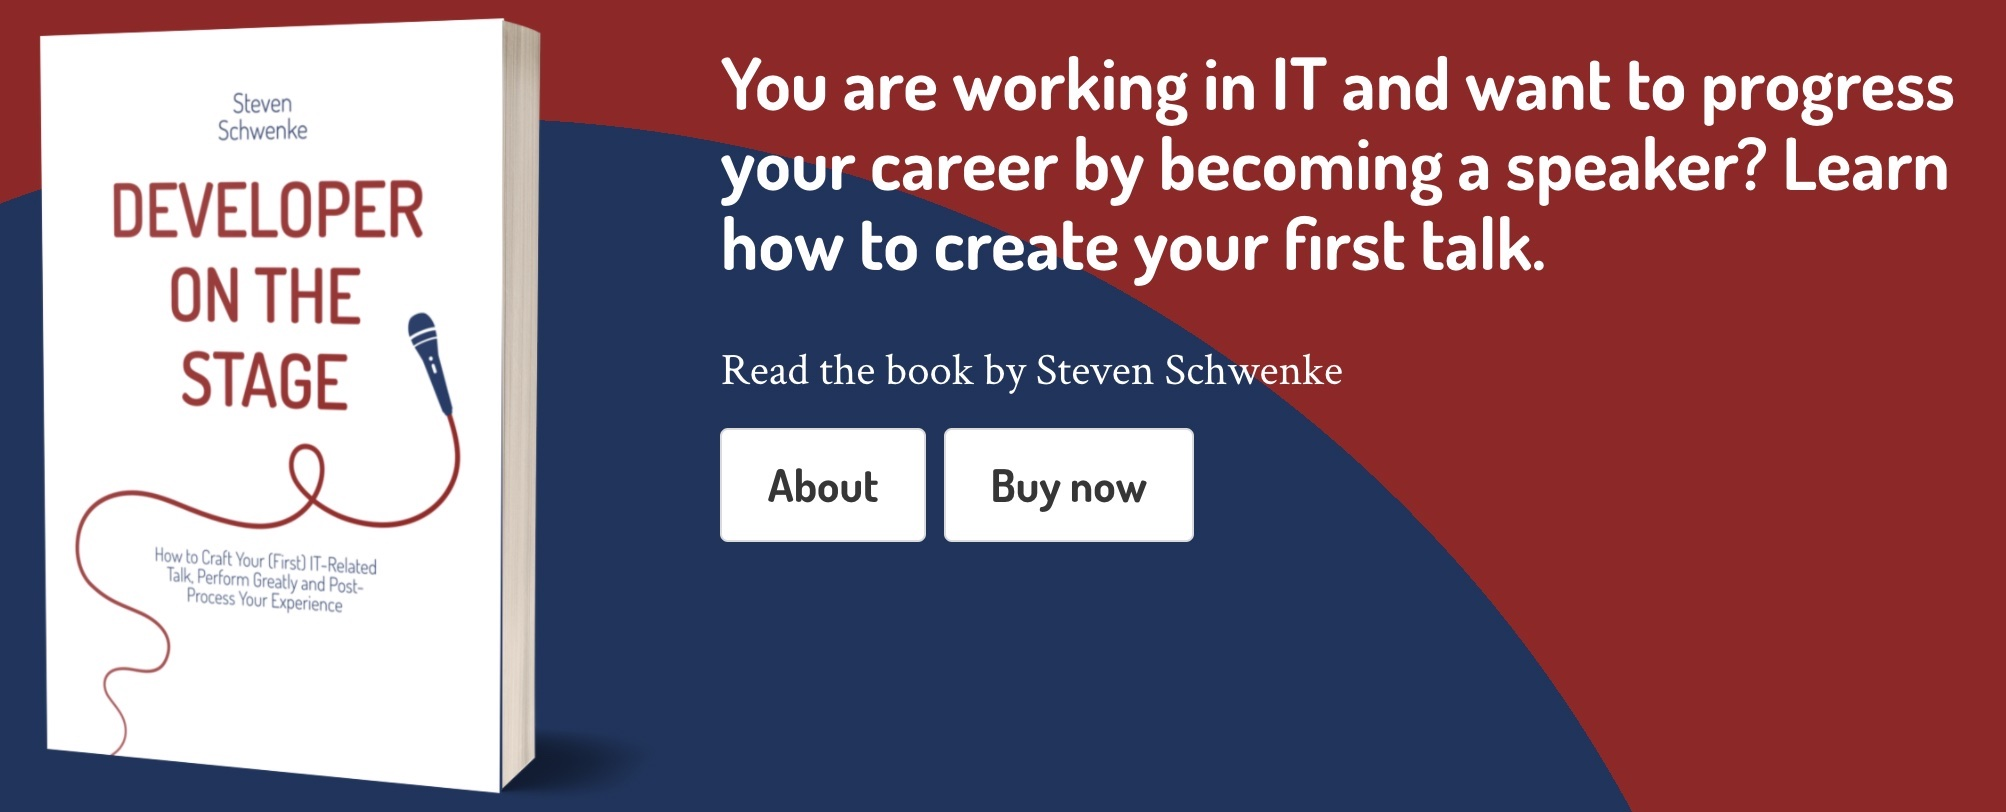
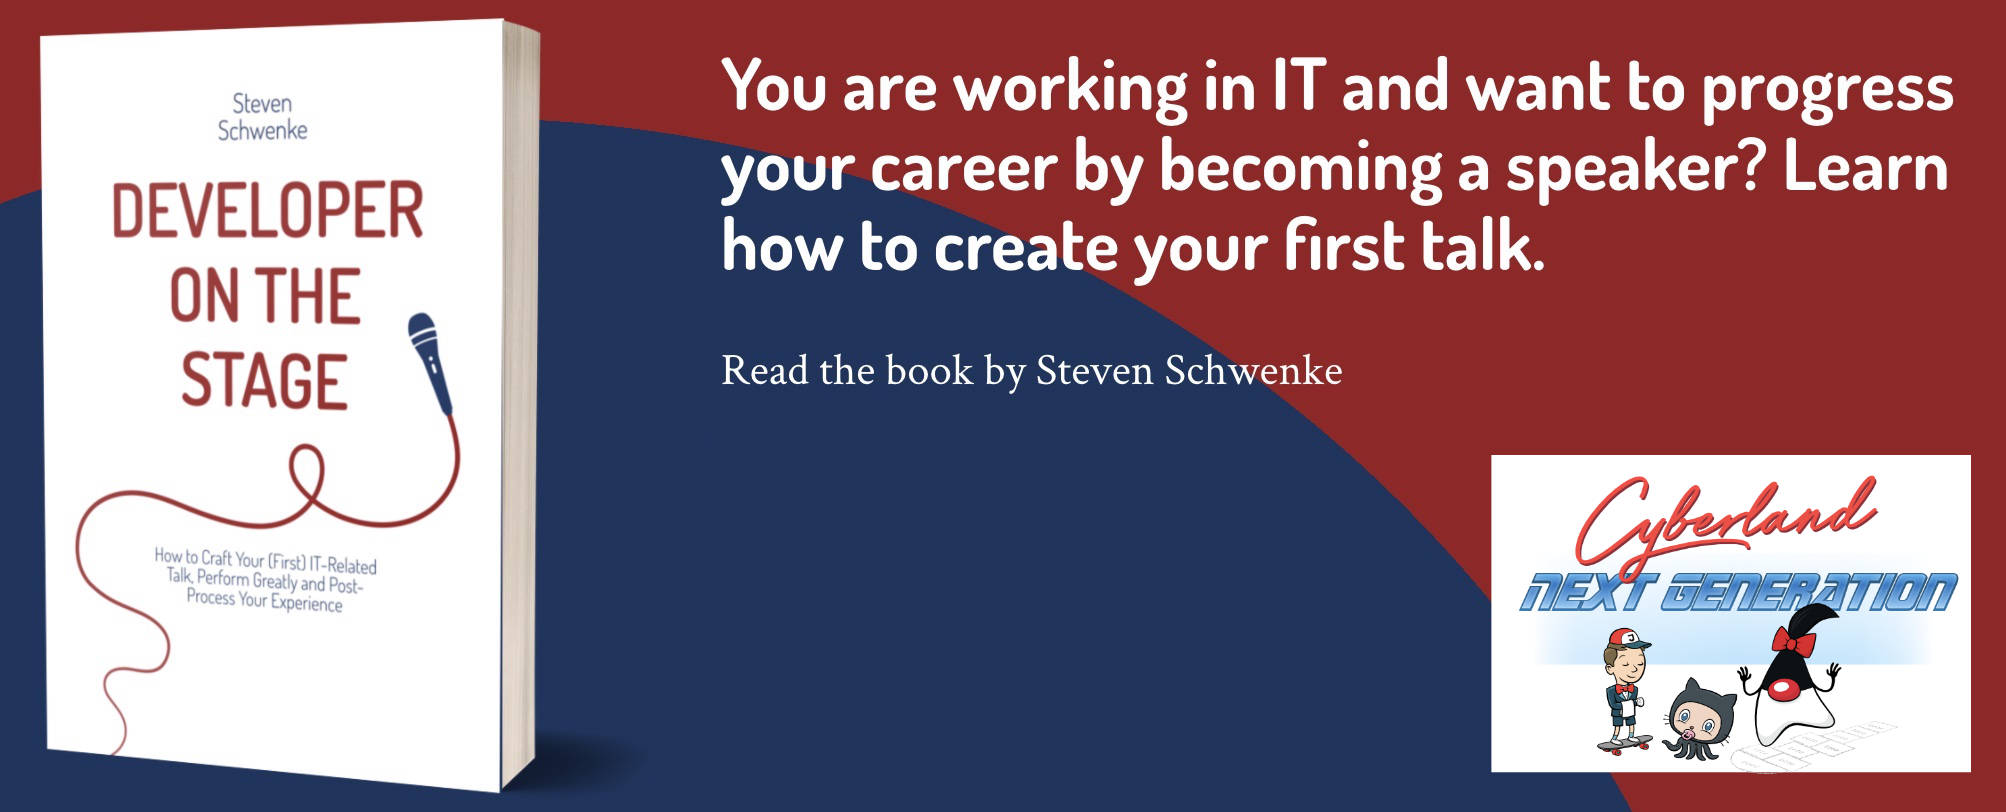
changes for talk tonight

Changed region(s): [[0.7418, 0.5542, 0.989, 0.9544], [0.34, 0.5234, 0.6181, 0.6773]]

diff --git a/slides.md b/slides.md
@@ -21,9 +21,10 @@ background-color: #ff0000;
 
   |  |  | 
 ------------- |------------- |------------- | -------------
-**19.05.2022** | <i class="fa fa-globe"></i> | GraphQL (**.darkblue[Nils Hartmann]**) | [<i class="fa fa-external-link"></i>](https://www.jug-da.de/2022/05/GraphQL/) |
 **23.06.2022** | <i class="fa fa-globe"></i> | Automated Migrations With Spring Boot Migrator (**.darkblue[Fabian Krüger]**) | [<i class="fa fa-external-link"></i>](https://www.jug-da.de/) |
-**offen** | <i class="fa fa-globe"></i> | JDK Tools (**.darkblue[Christian Stein]**) | [<i class="fa fa-external-link"></i>](https://www.jug-da.de/) |
+**21.07.2022** | <i class="fa fa-globe"></i> | GraphQL (**.darkblue[Nils Hartmann]**) | [<i class="fa fa-external-link"></i>](https://www.jug-da.de/2022/05/GraphQL/) |
+**27.07.2022** | <i class="fa fa-globe"></i> | Grillabend 🌭🥩🍻 | [<i class="fa fa-external-link"></i>](https://www.jug-da.de/) |
+**22.09.2022** | <i class="fa fa-building"></i> | JDK Tools + Java Next (**.darkblue[Christian Stein, Nicolai Parlog]**) | [<i class="fa fa-external-link"></i>](https://www.jug-da.de/) |
 
 .footnote[Veranstaltungsort: <i class="fa fa-globe"></i> Online / <i class="fa fa-university"></i> TU Darmstadt / <i class="fa fa-building"></i> Sponsor]
 
@@ -45,6 +46,18 @@ background-color: #ff0000;
 
 ---
 
+background-image: url(img/grillplatz.jpg)
+
+.stripe[<i class="fa fa-bullhorn" aria-hidden="true"></i> 7. JUG Darmstadt Barbecue]
+
+---
+## <i class="fa fa-bullhorn"></i> Remote oder Vor-Ort
+
+.stripe[Wieder erste Vor-Ort-Treffen geplant.]
+.stripe[Wir versuchen es Hybrid.]
+.stripe[Es wird auch weiter Remote-Events geben.]
+
+---
 background-image: url(img/jug-hilfe.jpg)
 
 ## <i class="fa fa-bullhorn"></i> Unterstützung
@@ -86,7 +99,7 @@ Wir suchen interessierte Firmen:
 
 ## <i class="fa fa-bullhorn"></i> Weitere Veranstaltungen
 
-.beam[[![:scale 20%](img/jax.png)](https://jax.de/) 02. - 06. Mai 2022 (15 % Rabatt)]  
+.beam[[![:scale 20%](img/jfs.jpg)](https://www.java-forum-stuttgart.de/) 07. Juli 2022]  
 
 ### Rabattcodes über orga@jug-da.de
 
@@ -117,6 +130,13 @@ CC0 Creative Commons: https://pixabay.com/de/frau-posen-e-learning-weiblich-1447
 - zwei JUG Darmstadt Newcomer pro Jahr, mindestens eine Frau
 - Primärziel nächste JavaLand, aber auch gern andere, lokale Konferenzen
 - bei der JavaLand entweder klassisch über den normalen CfP oder über das Newcomer-Programm
+
+---
+background-image: url(img/developeronstage.jpg)
+
+## <i class="fa fa-microphone"></i> Developer on the stage
+
+.bottom[4 Termine im Juni, jeden Mittwoch, 19 Uhr, je eine Stunde<br><i class="fa fa-external-link"></i> https://cyberland.ijug.eu/2022-06-next-generation/]
 
 ???
 
@@ -203,10 +223,12 @@ Falk</textarea>
 ### Preise
 
 1 Jetbrains Lizenz (IntelliJ, ...)  
-1 Buch Eurer Wahl vom dpunkt Verlag  
+1 Buch Eurer Wahl vom Hanser Verlag  
 1 CyberLandConf T-Shirt   
 
-![:scale 40%](img/tshirt.jpg) 
+![:scale 20%](img/sponsors/jetbrains.png) 
+![:scale 20%](img/sponsors/hanser.png) 
+![:scale 20%](img/tshirt.jpg) 
 
 ???
 
